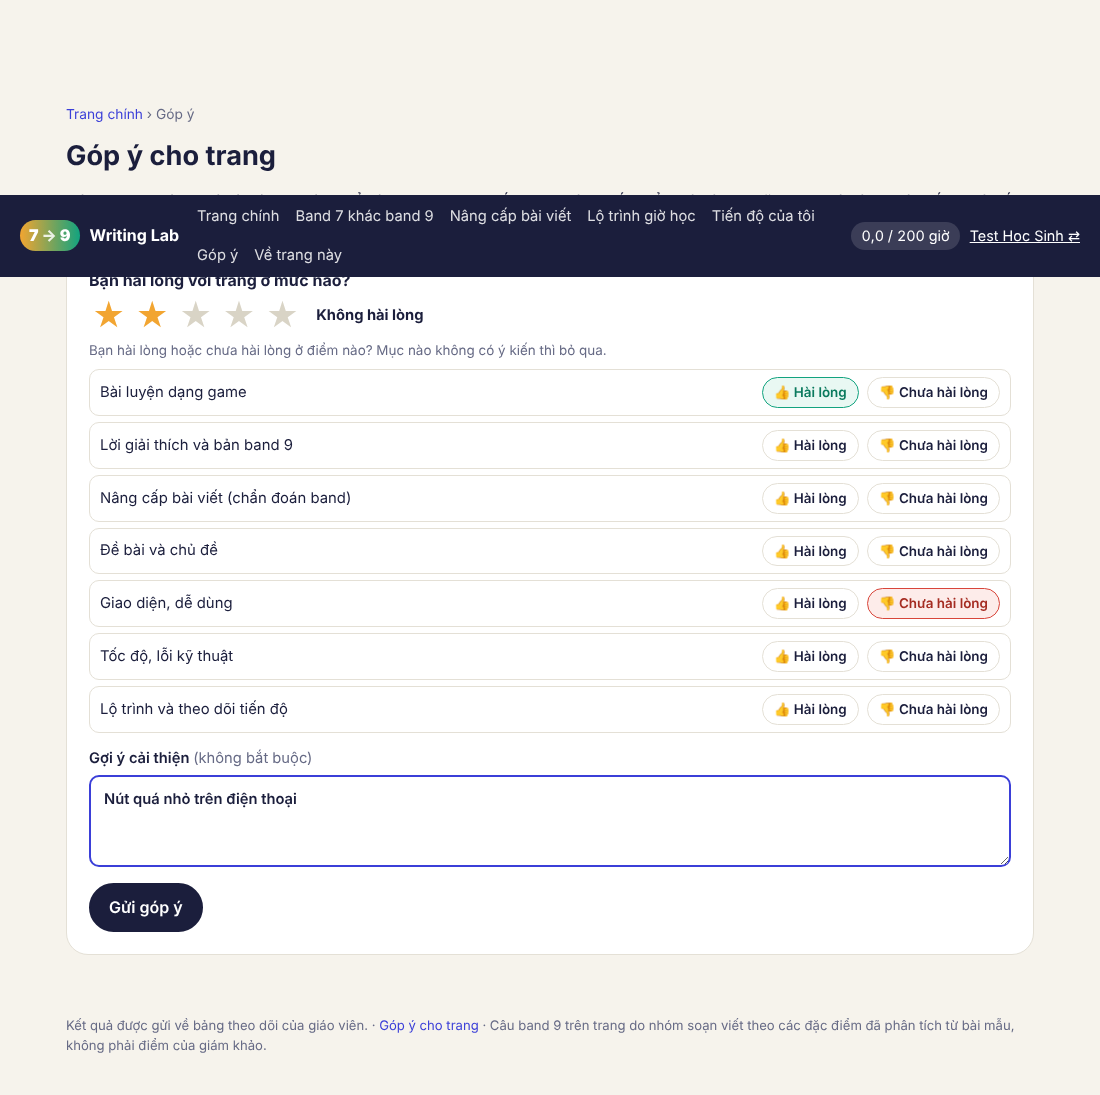
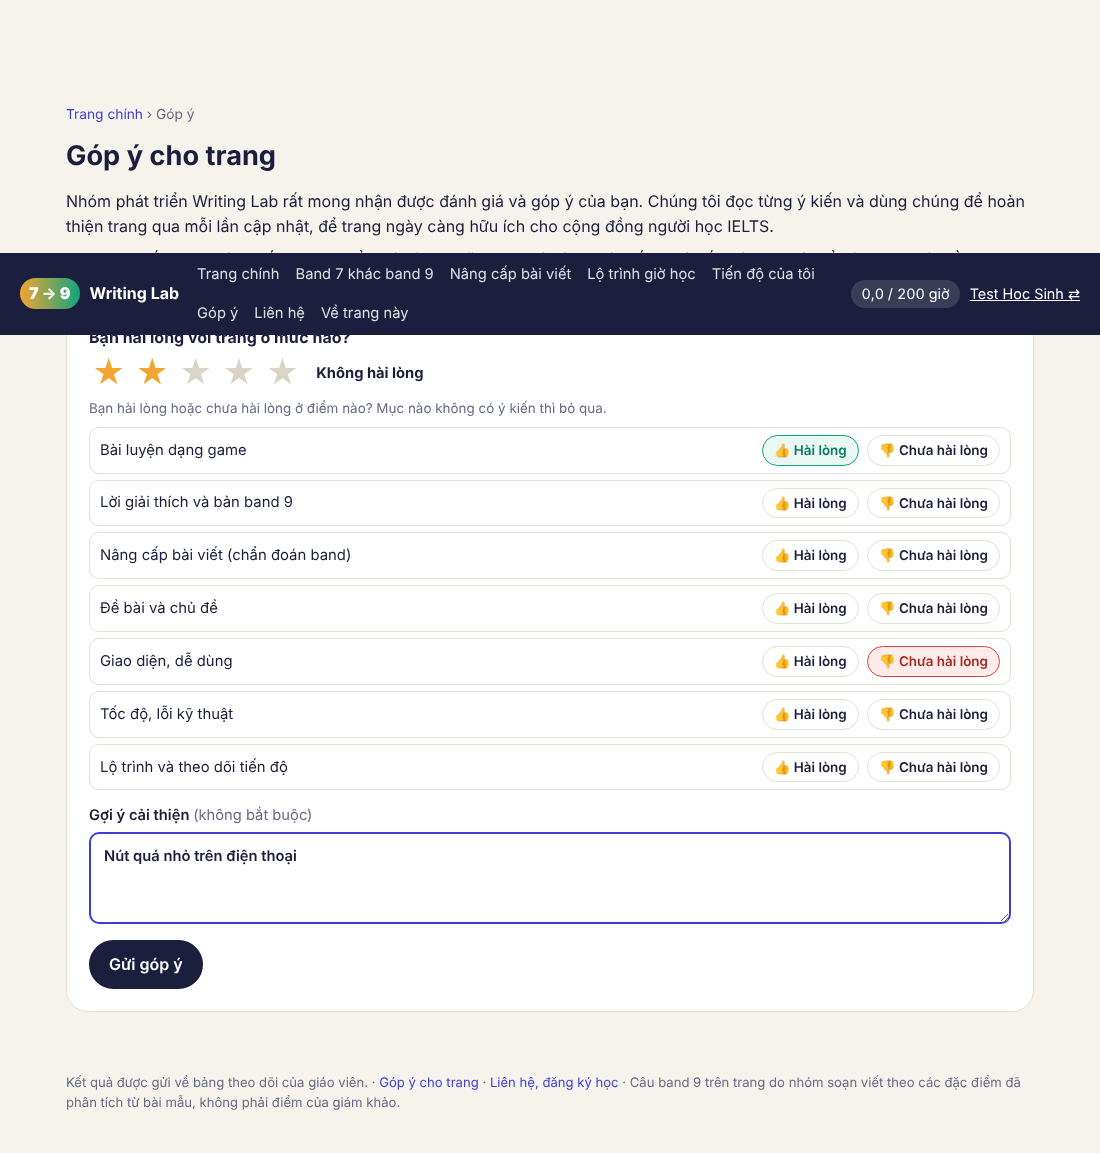
Thêm form liên hệ (đăng ký học, trao đổi chuyên môn) và danh sách liên hệ cho giáo viên
Claude-Session: https://claude.ai/code/session_01RP6wcXXRTyqtL87ipQ1ER9

Changed region(s): [[0.0, 0.0932, 1.0, 0.7452], [0.0618, 0.7763, 0.9273, 0.8694], [0.0618, 0.9315, 0.9273, 0.9626]]

diff --git a/index.html b/index.html
@@ -276,6 +276,11 @@ a.topcard.link h4{margin:4px 0 8px}.topgrid.wide{grid-template-columns:repeat(au
 .asprow span{flex:1;font-size:.93em}.vote{border:1.5px solid var(--line);background:#fff;border-radius:99px;padding:4px 11px;font-size:.84em;font-weight:600;white-space:nowrap}
 .vote.up.on{background:#e9f8f3;border-color:var(--b9);color:#0b7a5e}.vote.down.on{background:#fdecea;border-color:var(--bad);color:#a52c22}
 textarea.fbt{min-height:92px;margin-top:0;font-family:inherit;font-size:1em;line-height:1.5}
+.cform{display:grid;gap:14px;background:#fff;border:1px solid var(--line);border-radius:22px;padding:22px;max-width:640px}
+.cform fieldset{border:0;padding:0;margin:0;display:grid;gap:8px}.cform legend{font-weight:600;font-size:.92em;padding:0;margin-bottom:6px}
+.cform .pick{display:flex;gap:10px;align-items:flex-start;font-weight:500;padding:11px 13px;border:2px solid var(--line);border-radius:10px;cursor:pointer}.cform .pick:has(input:checked){border-color:var(--acc);background:#eef0ff}
+.cform .pick input{width:18px;height:18px;margin-top:3px;flex:none}.cform textarea{min-height:110px;margin-top:0;font-family:inherit;font-size:1em;line-height:1.5}
+.cerr{color:var(--bad);font-weight:600;margin:0}
 .fbthanks{font-weight:700;color:#0b7a5e;margin:0}
 @media(max-width:720px){.asprow{flex-wrap:wrap}.asprow span{flex-basis:100%}}
 </style>
@@ -2297,10 +2302,10 @@ B79.bank = [{"id":"b1","tp":"media","ty":"posneg","q":"Advertising is becoming m
   function shell(inner, crumbs) {
     const total = totalSec();
     app.innerHTML = `<header class="top"><a class="brand" href="#/"><span class="b79"><b>7</b><i>→</i><b>9</b></span><span>Writing Lab</span></a>
-      <nav><a href="#/">Trang chính</a><a href="#/why">Band 7 khác band 9</a><a href="#/coach">Nâng cấp bài viết</a><a href="#/plan">Lộ trình giờ học</a><a href="#/me">Tiến độ của tôi</a><a href="#/feedback">Góp ý</a><a href="#/about">Về trang này</a></nav>
+      <nav><a href="#/">Trang chính</a><a href="#/why">Band 7 khác band 9</a><a href="#/coach">Nâng cấp bài viết</a><a href="#/plan">Lộ trình giờ học</a><a href="#/me">Tiến độ của tôi</a><a href="#/feedback">Góp ý</a><a href="#/contact">Liên hệ</a><a href="#/about">Về trang này</a></nav>
       <div class="who"><span class="hrs" id="tophours">${fmtH(total)} / ${CFG.targetHours} giờ</span><button class="link" id="switch" title="Đổi người học">${esc(U.name)} ⇄</button></div></header>
       <main>${crumbs ? `<div class="crumbs">${crumbs}</div>` : ""}${inner}</main>
-      <footer>${CFG.endpoint ? "Kết quả được gửi về bảng theo dõi của giáo viên." : "Tiến độ đang lưu trên thiết bị này."} · <a href="#/feedback">Góp ý cho trang</a> · Câu band 9 trên trang do nhóm soạn viết theo các đặc điểm đã phân tích từ bài mẫu, không phải điểm của giám khảo.</footer>`;
+      <footer>${CFG.endpoint ? "Kết quả được gửi về bảng theo dõi của giáo viên." : "Tiến độ đang lưu trên thiết bị này."} · <a href="#/feedback">Góp ý cho trang</a> · <a href="#/contact">Liên hệ, đăng ký học</a> · Câu band 9 trên trang do nhóm soạn viết theo các đặc điểm đã phân tích từ bài mẫu, không phải điểm của giám khảo.</footer>`;
     $("#switch").onclick = () => { if (confirm("Đổi người học? Tiến độ của " + U.name + " vẫn được giữ trên máy này.")) { save(); store.del("b79:user"); U = null; S = null; location.hash = "#/"; route(); } };
     window.scrollTo(0, 0);
   }
@@ -2769,7 +2774,7 @@ B79.bank = [{"id":"b1","tp":"media","ty":"posneg","q":"Advertising is becoming m
       <h3>Khối lượng hiện có</h3><p>${nGame} bài luyện dạng game và ${nWrite} đề viết. Một lượt làm hết các bài game mất khoảng 4 đến 6 giờ; phần còn lại của khung giờ đến từ các đề viết và việc luyện lại.</p>
       <h3>Về nhãn “Band 7” và “Band 9”</h3><p>Các câu và bài mẫu band 9 trên trang do nhóm soạn viết, dựa trên những đặc điểm đo được khi phân tích bài mẫu của các tác giả có tên. Các câu band 7 cũng do nhóm soạn viết để minh họa lỗi điển hình. Nhãn band là ước lượng theo band descriptor công khai, không phải điểm do giám khảo IELTS chấm.</p>
       <h3>Phần “Nâng cấp bài viết” đo cái gì</h3><p>Trang đếm các đặc trưng có thể đếm được trên bài của bạn (từ nối đầu câu, từ tuyệt đối, cụm danh từ, số liệu trong overview…) và so với ngưỡng rút từ bài mẫu. Kết quả là “bài đang mang đặc trưng của band nào”, không phải điểm thi. Máy không chấm được chất lượng lập luận và không bắt hết lỗi ngữ pháp.</p>${PAID.enabled ? `<h3>Chế độ trả phí</h3><p>Chế độ miễn phí luôn bật. Nếu muốn trợ lý AI chấm riêng bài của mình, bạn gửi yêu cầu tới ${esc(PAID.email)}; phí là ${vnd(FEE)} mỗi bài. Khi dùng chế độ này, bài bạn dán được gửi tới dịch vụ AI (Claude của Anthropic) để đọc.</p>` : ""}<h3>Ngân hàng đề Task 2</h3><p>${(D.bank || []).length} đề viết cả bài, xếp theo chủ đề bằng từ khóa nên một số đề có thể nằm chưa đúng chủ đề. Đề thi 2025 và 2026 là đề do thí sinh nhớ lại, lấy từ các trang tổng hợp Onthiielts, TalkFirst, Langmaster và IELTS Fighter; IELTS không công bố đề thi, nên câu chữ và tháng thi chỉ mang tính tham khảo. Các đề còn lại lấy từ bộ bài mẫu theo chủ đề của giáo viên; trang chỉ đăng đề bài và tên nơi có bài mẫu (How to do IELTS, IELTS Vietop, IELTS Advantage, Thanh Nguyễn), không đăng lại bài mẫu.</p><h3>Đề thi Task 1 năm 2024</h3><p>${(D.bank1 || []).length} đề lấy từ bộ đề năm 2024 của giáo viên, chỉ gồm những đề đọc được đầy đủ số liệu. Hình và bảng do trang vẽ lại từ số liệu của đề, không phải hình gốc; trang không đăng bài mẫu của bộ đề đó.</p><h3>Dữ liệu Task 1</h3><p>Sáu bộ dữ liệu (Newport, Ashby và các bảng số) được dựng riêng cho trang này, không phải số liệu thật.</p>
-      <h3>Dữ liệu của bạn</h3><p>${CFG.endpoint ? "Tên, lớp, kết quả từng bài, thời gian làm, bài viết bạn nộp và đánh giá, góp ý bạn gửi được chuyển về bảng theo dõi của giáo viên." : "Trang chưa nối với bảng theo dõi của giáo viên. Tiến độ chỉ lưu trên thiết bị này; bạn có thể tải báo cáo ở mục Tiến độ của tôi."}</p></div>`, `<a href="#/">Trang chính</a> › Về trang này`);
+      <h3>Dữ liệu của bạn</h3><p>${CFG.endpoint ? "Tên, lớp, kết quả từng bài, thời gian làm, bài viết bạn nộp và đánh giá, góp ý bạn gửi được chuyển về bảng theo dõi của giáo viên. Nếu bạn điền form Liên hệ, số điện thoại, email hoặc Facebook bạn ghi cũng được gửi về đó và chỉ dùng để liên hệ lại với bạn." : "Trang chưa nối với bảng theo dõi của giáo viên. Tiến độ chỉ lưu trên thiết bị này; bạn có thể tải báo cáo ở mục Tiến độ của tôi."}</p></div>`, `<a href="#/">Trang chính</a> › Về trang này`);
   }
 
   /* =================== HUẤN LUYỆN VIÊN: chẩn đoán → từng bước → tổng kết =================== */
@@ -3034,6 +3039,45 @@ B79.bank = [{"id":"b1","tp":"media","ty":"posneg","q":"Advertising is becoming m
     fbMount($("#fbhost"), { tech: "SITE", topic: "", src: "form" }, true);
   }
 
+  /* ---------- liên hệ: trao đổi chuyên môn / đăng ký học ---------- */
+  function vContact() {
+    shell(`<h1 class="pt">Liên hệ</h1><p>Bạn muốn trao đổi chuyên môn về dạy và học IELTS Writing, hoặc đăng ký học? Hãy để lại thông tin, nhóm phát triển Writing Lab sẽ liên hệ lại với bạn.</p>
+      <form class="cform" id="cf" novalidate>
+        <fieldset><legend>Bạn liên hệ về việc gì?</legend>
+          <label class="pick"><input type="radio" name="why" value="enrol" checked> <span><b>Đăng ký học</b><br><span class="small">Tôi muốn học IELTS Writing để nâng band.</span></span></label>
+          <label class="pick"><input type="radio" name="why" value="expert"> <span><b>Trao đổi chuyên môn</b><br><span class="small">Tôi là giáo viên hoặc người làm chuyên môn, muốn trao đổi hay hợp tác.</span></span></label></fieldset>
+        <label>Họ và tên<input id="cn" maxlength="60" autocomplete="name" value="${esc(U.name)}"></label>
+        <p class="small" style="margin:0">Điền ít nhất một trong ba cách liên hệ dưới đây.</p>
+        <label>Số điện thoại có Zalo<input id="cp" type="tel" inputmode="tel" maxlength="16" autocomplete="tel" placeholder="Ví dụ: 0912 345 678"></label>
+        <label>Email<input id="ce" type="email" maxlength="120" autocomplete="email" placeholder="ten@example.com"></label>
+        <label>Facebook <span class="opt-l" style="display:inline">(tên tài khoản hoặc đường dẫn trang cá nhân)</span><input id="cb" maxlength="160" placeholder="facebook.com/…"></label>
+        <label><span>Nội dung <span class="opt-l">(không bắt buộc)</span></span><textarea id="cm" maxlength="1500" placeholder="Ví dụ: band hiện tại và mục tiêu của bạn, thời gian bạn có thể học, hoặc chủ đề bạn muốn trao đổi…"></textarea></label>
+        <p class="cerr" id="cerr" role="alert" hidden></p>
+        <div class="bar-actions" style="margin-top:0"><button class="btn primary" type="submit">Gửi thông tin</button></div>
+        <p class="small" style="margin:0">Thông tin của bạn chỉ được dùng để liên hệ lại với bạn, không hiển thị công khai trên trang.</p>
+      </form>`, `<a href="#/">Trang chính</a> › Liên hệ`);
+    $("#cf").onsubmit = e => {
+      e.preventDefault();
+      const name = $("#cn").value.trim().replace(/\s+/g, " "), phone = $("#cp").value.trim(), email = $("#ce").value.trim(), fb = $("#cb").value.trim(), msg = $("#cm").value.trim(), why = $('input[name="why"]:checked').value;
+      const fail = (m, el) => { const x = $("#cerr"); x.textContent = m; x.hidden = false; if (el) el.focus(); };
+      if (name.length < 2) return fail("Hãy điền họ và tên.", $("#cn"));
+      if (!phone && !email && !fb) return fail("Hãy điền ít nhất một cách liên hệ: số điện thoại có Zalo, email hoặc Facebook.", $("#cp"));
+      if (phone && phone.replace(/\D/g, "").length < 9) return fail("Số điện thoại có vẻ chưa đủ số. Bạn kiểm tra lại giúp nhé.", $("#cp"));
+      if (email && !/^[^\s@]+@[^\s@]+\.[^\s@]+$/.test(email)) return fail("Địa chỉ email chưa đúng dạng.", $("#ce"));
+      const last = store.get("b79:clast") || 0; if (Date.now() - last < 30000) return fail("Bạn vừa gửi rồi. Nếu cần sửa thông tin, hãy thử lại sau nửa phút.");
+      store.set("b79:clast", Date.now());
+      const whyL = why === "enrol" ? "Đăng ký học" : "Trao đổi chuyên môn";
+      if (CFG.endpoint) {
+        send({ kind: "contact", name: name, tech: "", topic: "", type: why, ok: 0, try: 0, sec: 0, words: words(msg), text: JSON.stringify({ phone: phone, email: email, fb: fb, msg: msg, user: U.name }) });
+        $("#cf").outerHTML = `<div class="cform"><p class="fbthanks">✓ Cảm ơn ${esc(name)}. Thông tin đã được gửi.</p><p style="margin:0">Nhóm phát triển sẽ liên hệ lại với bạn qua ${[phone && "Zalo", email && "email", fb && "Facebook"].filter(Boolean).join(" hoặc ")} trong thời gian sớm nhất.</p><div class="bar-actions" style="margin-top:0"><a class="btn primary" href="#/">Về trang chính</a></div></div>`;
+      } else {
+        const body = "Mục đích: " + whyL + "\nHọ tên: " + name + "\nSố điện thoại (Zalo): " + (phone || "-") + "\nEmail: " + (email || "-") + "\nFacebook: " + (fb || "-") + "\n\nNội dung:\n" + (msg || "-");
+        $("#cf").outerHTML = `<div class="cform"><p class="fbthanks">Còn một bước nữa.</p><p style="margin:0">Trang chưa nối với hộp thư của nhóm, nên hãy bấm nút dưới để gửi thông tin qua email.</p><div class="bar-actions" style="margin-top:0"><a class="btn primary" href="mailto:${esc(PAID.email)}?subject=${encodeURIComponent("[Band 7→9] " + whyL + ": " + name)}&body=${encodeURIComponent(body)}">Gửi qua email</a></div></div>`;
+      }
+      window.scrollTo(0, 0);
+    };
+  }
+
   /* ---------- điều hướng ---------- */
   function route() {
     if (game && game.stop) game.stop(); game = null; act = null; if (S) save();
@@ -3052,6 +3096,7 @@ B79.bank = [{"id":"b1","tp":"media","ty":"posneg","q":"Advertising is becoming m
       case "me": return vMe();
       case "about": return vAbout();
       case "feedback": return vFeedback();
+      case "contact": return vContact();
       case "why": return vHome(true);
       default: return vHome();
     }

diff --git a/teacher.html b/teacher.html
@@ -18,7 +18,7 @@ button{font:inherit;font-weight:600;padding:9px 16px;border-radius:99px;border:2
 .kpis{display:grid;grid-template-columns:repeat(4,1fr);gap:12px;margin:16px 0}.kpis div{background:#fff;border:1px solid var(--line);border-radius:14px;padding:12px;text-align:center}.kpis b{display:block;font-size:1.6rem}.kpis span{font-size:.82em;color:var(--mut)}
 .wrap{overflow-x:auto;background:#fff;border:1px solid var(--line);border-radius:14px}
 table{border-collapse:collapse;width:100%;font-size:.9em}th,td{padding:8px 11px;border-bottom:1px solid var(--line);text-align:left;white-space:nowrap;font-variant-numeric:tabular-nums}
-th{background:#faf8f3;cursor:pointer;user-select:none}tbody tr:hover{background:#f3f4ff;cursor:pointer}td.n{font-weight:600}
+th{background:#faf8f3;cursor:pointer;user-select:none}tbody tr:hover{background:#f3f4ff;cursor:pointer}td.n{font-weight:600}td.wrapc{white-space:pre-wrap;min-width:240px;max-width:420px}
 h2{margin:26px 0 10px;font-size:1.15rem}.pb{display:inline-block;width:70px;height:7px;border-radius:9px;background:#ebe7dc;vertical-align:middle;margin-right:6px;overflow:hidden}.pb i{display:block;height:100%;background:var(--b9)}
 .low{color:var(--bad);font-weight:700}
 .fbgrid{display:grid;grid-template-columns:1fr 1fr;gap:12px}.panel{background:#fff;border:1px solid var(--line);border-radius:14px;padding:14px}.panel h3{margin:0 0 10px;font-size:.95rem}
@@ -80,6 +80,7 @@ h2{margin:26px 0 10px;font-size:1.15rem}.pb{display:inline-block;width:70px;heig
     var cls = $("#cls").value, by = {};
     rows.forEach(function (r) {
       if (cls && r[2] !== cls) return;
+      if (r[3] === "contact") return;
       var id = String(r[1]).trim().toLowerCase() + "|" + r[2];
       var s = by[id] || (by[id] = { name: r[1], cls: r[2], sec: 0, okIds: {}, first: 0, firstOk: 0, techs: {}, wr: 0, words: 0, last: "", items: [], essays: [] });
       if (r[0] > s.last) s.last = r[0];
@@ -112,6 +113,7 @@ h2{margin:26px 0 10px;font-size:1.15rem}.pb{display:inline-block;width:70px;heig
       weak.forEach(function (x) { var t = TECHS[x.k] || { n: x.k, m: "" }; h += "<tr><td class=\"n\">" + esc(x.k) + " · " + esc(t.n) + "</td><td>" + esc(t.m) + "</td><td>" + x.n + "</td><td" + (x.acc < 0.6 ? ' class="low"' : "") + ">" + Math.round(x.acc * 100) + "%</td></tr>"; });
       h += "</tbody></table></div>";
     }
+    h += contacts();
     h += feedback();
     /* chế độ trả phí: ai đang được bật, và chi phí AI thực tế so với phí công bố */
     var P = CFG.paid || {}, cost = +P.aiCostPerEssayVND || 0, mk = +P.markup || 2, rate = +P.usdToVnd || 26000, nEss = 0, micro = 0;
@@ -128,7 +130,37 @@ h2{margin:26px 0 10px;font-size:1.15rem}.pb{display:inline-block;width:70px;heig
     $("#out").innerHTML = h; $("#csv").hidden = !list.length;
     Array.prototype.forEach.call(document.querySelectorAll("th[data-k]"), function (th) { th.onclick = function () { var k = th.getAttribute("data-k"); if (sortKey === k) sortDir = -sortDir; else { sortKey = k; sortDir = k === "name" || k === "cls" ? 1 : -1; } render(); }; });
     if ($("#csvfb")) $("#csvfb").onclick = csvFb;
+    if ($("#csvct")) $("#csvct").onclick = csvCt;
     Array.prototype.forEach.call(document.querySelectorAll("tr[data-i]"), function (tr) { tr.onclick = function () { detail(list[+tr.getAttribute("data-i")]); }; });
+  }
+
+  /* ---------- người liên hệ: đăng ký học / trao đổi chuyên môn ---------- */
+  var WHY = { enrol: "Đăng ký học", expert: "Trao đổi chuyên môn" }, ctList = [];
+  function contacts() {
+    ctList = [];
+    rows.forEach(function (r) {
+      if (r[3] !== "contact") return;
+      var x = {}; try { x = JSON.parse(r[11]) || {}; } catch (e) { x = { msg: String(r[11] || "") }; }
+      ctList.push({ ts: r[0], name: r[1], why: r[6], phone: String(x.phone || ""), email: String(x.email || ""), fb: String(x.fb || ""), msg: String(x.msg || ""), user: String(x.user || "") });
+    });
+    ctList.sort(function (a, b) { return a.ts < b.ts ? 1 : -1; });
+    var h = "<h2>Liên hệ: đăng ký học và trao đổi chuyên môn (" + ctList.length + ")</h2>";
+    if (!ctList.length) return h + '<p class="msg">Chưa có ai gửi form Liên hệ.</p>';
+    var nE = ctList.filter(function (c) { return c.why === "enrol"; }).length;
+    h += '<p class="msg">' + nE + " đăng ký học · " + (ctList.length - nE) + ' trao đổi chuyên môn. <button class="ghost" id="csvct">⬇ Tải danh sách (.csv)</button></p><div class="wrap"><table><thead><tr><th>Thời gian</th><th>Họ tên</th><th>Mục đích</th><th>Điện thoại (Zalo)</th><th>Email</th><th>Facebook</th><th>Nội dung</th></tr></thead><tbody>';
+    ctList.forEach(function (c) {
+      var digits = c.phone.replace(/\D/g, ""), url = /^https?:\/\//i.test(c.fb) ? c.fb : /^(www\.|m\.)?(facebook|fb)\.com\//i.test(c.fb) ? "https://" + c.fb : "";
+      h += "<tr style=\"cursor:default\"><td>" + new Date(c.ts).toLocaleString("vi-VN") + '</td><td class="n">' + esc(c.name) + (c.user && c.user !== c.name ? '<div class="meta">tên trên trang: ' + esc(c.user) + "</div>" : "") + "</td><td>" + esc(WHY[c.why] || c.why) + "</td><td>" +
+        (c.phone ? esc(c.phone) + (digits.length >= 9 ? ' · <a target="_blank" rel="noopener" href="https://zalo.me/' + digits + '">Zalo</a>' : "") : "–") + "</td><td>" + (c.email ? '<a href="mailto:' + esc(c.email) + '">' + esc(c.email) + "</a>" : "–") + "</td><td>" +
+        (c.fb ? (url ? '<a target="_blank" rel="noopener" href="' + esc(url) + '">' + esc(c.fb) + "</a>" : esc(c.fb)) : "–") + '</td><td class="wrapc">' + (esc(c.msg) || "–") + "</td></tr>";
+    });
+    return h + "</tbody></table></div>";
+  }
+  function csvCt() {
+    var q = function (v) { return '"' + String(v == null ? "" : v).replace(/"/g, '""') + '"'; };
+    var out = [["Thời gian", "Họ tên", "Mục đích", "Điện thoại (Zalo)", "Email", "Facebook", "Nội dung"].map(q).join(",")];
+    ctList.forEach(function (c) { out.push([c.ts, c.name, WHY[c.why] || c.why, c.phone ? "'" + c.phone : "", c.email, c.fb, c.msg].map(q).join(",")); });
+    var a = document.createElement("a"); a.href = URL.createObjectURL(new Blob(["\ufeff" + out.join("\n")], { type: "text/csv;charset=utf-8" })); a.download = "band79-lien-he.csv"; document.body.appendChild(a); a.click(); a.remove();
   }
 
   /* ---------- đánh giá và góp ý của người dùng ---------- */
